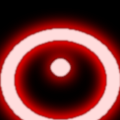
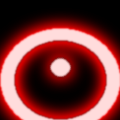
Old mods to images and make_tilegrid.py

Changed region(s): [[0.0, 0.225, 1.0, 1.0], [0.8, 0.7, 1.0, 1.0]]

diff --git a/rendering/make_tilegrid.py b/rendering/make_tilegrid.py
@@ -131,9 +131,9 @@ def draw_eye(pitch, roll):
 
     return crop
 
-def draw_eye_components(pitch, roll, iris_color):
+def draw_eye_components(pitch, roll, iris_color, bgcolor):
     # Create a working image to draw in.  We'll copy this to input draw context at the end.
-    im2 = Image.new("RGBA", [240, 240], (0, 0, 0, 0))
+    im2 = Image.new("RGBA", [240, 240], bgcolor)
     cx = 120
     cy = 120
     d2 = ImageDraw.Draw(im2)
@@ -212,15 +212,16 @@ def draw_eye2(pitch, roll):
     small_blur = ImageFilter.GaussianBlur(radius=1.0)
 
 
-    base_im = Image.new("RGB", (240, 240), (0, 0, 0))
-    glow = draw_eye_components(pitch, roll, IRIS_GLOW)
+
+    glow = draw_eye_components(pitch, roll, IRIS_GLOW, (0, 0, 0, 0))
     glow = glow.filter(big_blur)
     brighten = ImageEnhance.Brightness(glow)
     glow = brighten.enhance(2.0)
     
-    overexposed = draw_eye_components(pitch, roll, IRIS_GLARE)
+    overexposed = draw_eye_components(pitch, roll, IRIS_GLARE, (255, 0, 0, 0))
     overexposed = overexposed.filter(small_blur)
 
+    base_im = Image.new("RGB", (240, 240), (0, 0, 0))
     base_im.paste(glow)
     base_im.paste(overexposed, mask=overexposed)
 
